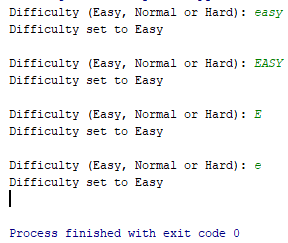
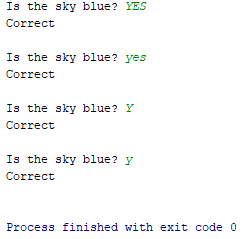
Current

diff --git a/01c_QQ_user_input.py b/01c_QQ_user_input.py
@@ -1,7 +1,8 @@
 # Quiz Quest Component 1c - get user input for certain variables needed (Trialling)
+# I used Mrs Gottschalk's string checker and altered the code a bit to make it work with the rest of my code
 
 # String Checker Function
-dif_range = ["hard", "normal", "easy"]
+answer = ["yes", "no", "maybe"]
 
 # Mrs Gottschalk's string checker starts here (edited)
 def str_checker(question, to_check, error):
@@ -19,8 +20,17 @@ def str_checker(question, to_check, error):
         print("Please enter either {}\n".format(error))
 # Mrs Gottschalk's string checker ends here (edited)
 
-# For loop for testing purposes
-for item in range(0,2):
-    difficulty = str_checker("Difficulty (Easy, Normal or Hard): ",dif_range, "Hard, Normal or Easy").lower()
+# For loop loops three times for testing purposes
+for item in range(0,4):
+    question = str_checker("Is the sky blue? ", answer, "Yes, No or Maybe").lower()
+
+    # If statements to check if the question variable works as intended
+    if question == "yes" or question == "y":
+        print("Correct")
+    elif question == "no" or question == "n":
+        print("Incorrect")
+    else:
+        print("Pseudo-Correct")
+    print()
 
 

diff --git a/05_QQ_difficulty_v1.py b/05_QQ_difficulty_v1.py
@@ -6,7 +6,22 @@
 import random
 
 
-# Intchecker function goes here
+# String Checker goes here
+def str_check(question, to_check, error):
+    valid = False
+    while not valid:
+
+        # Ask question
+        response = input(question).lower()
+
+        for item in to_check:
+            if response == item:
+                return response
+            elif response == item[0]:
+                return item
+        print("Please enter either {}\n".format(error))
+
+# Int-checker function goes here
 def int_check(question):
     while True:
         try:
@@ -84,7 +99,8 @@ def inequation_q(num_one, num_two):
 
     print(answer)
     # I haven't put in an intchecker
-    response = (input("[{} _ {}] What is the missing operator (</>/=)? ".format(num_one, num_two)))
+    inequations = ["<", ">", "="]
+    response = str_check("[{} _ {}] What is the missing operator (</>/=)? ".format(num_one, num_two), inequations, "<, > or =")
 
     # Checks if the response is correct or incorrect
     if response == answer:

diff --git a/01b_QQ_user_input.py b/01b_QQ_user_input.py
@@ -1,12 +1,14 @@
 # Quiz Quest Component 1b - get user input for certain variables needed
 
 # Difficulty Selection
-difficulty_valid = False
-high = 0
-difficulty = input("Difficulty (Easy, Normal or Hard): ").lower()
-if difficulty == "easy" or difficulty == "e":
-    high = 10
-else:
-    print("You didn't enter any of the difficulties")
-    print()
-    print(high)
+valid = False
+while not valid:
+    answer = input("Yes or No: ").lower()
+    if answer == "yes" or answer == "y":
+        print("YES")
+        valid = True
+    elif answer == "no" or answer == "n":
+        print("NO")
+        valid = True
+    else:
+        print("Please enter either yes or no")

diff --git a/02_QQ_random_number.py b/02_QQ_random_number.py
@@ -2,9 +2,11 @@
 
 import random
 
+# Low and hogh is set
 low = 1
 high = 4
 
+# For loop loops 20 times to get all the numbers between 1 and 4 to get printed
 for item in range(0,20):
     secret = random.randint(low, high)
     print(secret, end = "\t")
